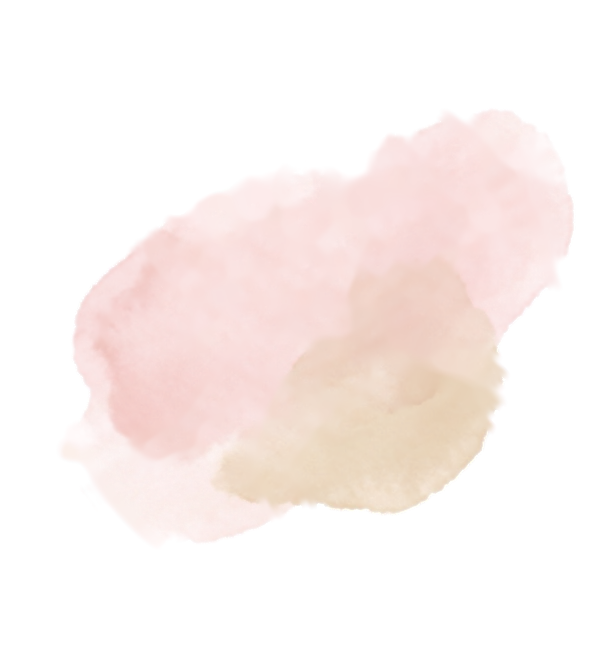
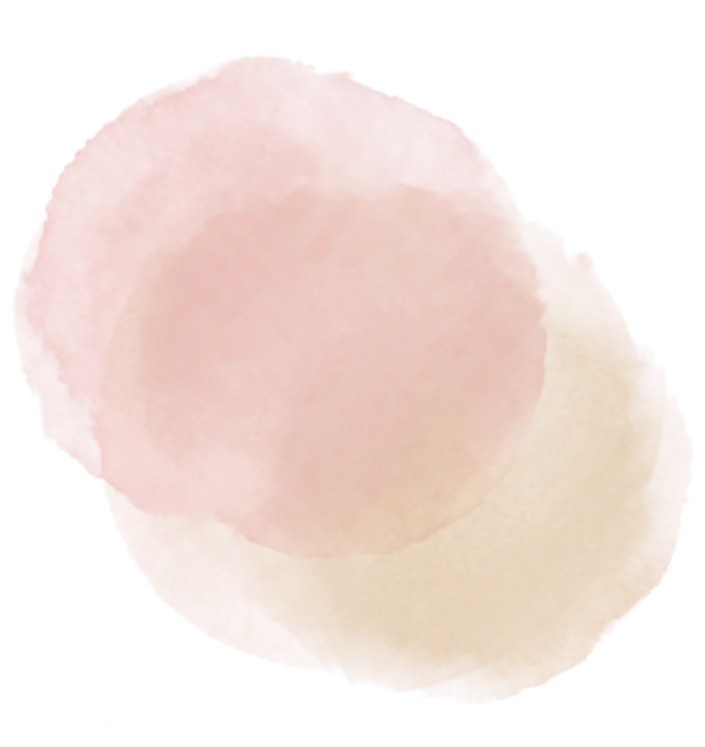
jeevana revamp: minimal single-line Nataraja (blind winner), earlier reveal, sticky placement, mobile Paris + contact scroll fit
Claude-Session: https://claude.ai/code/session_01MJWNLiCuiaMfjvqZLRnJsz

diff --git a/deliverables/jeevana_site_2026-10-26/revamp/css/styles.css b/deliverables/jeevana_site_2026-10-26/revamp/css/styles.css
@@ -421,7 +421,7 @@ fieldset:disabled input,fieldset:disabled select,fieldset:disabled textarea{curs
 .paris__media .frame{aspect-ratio:3/4}
 .paris__media .ph{filter:saturate(.72) sepia(.12) contrast(.96)}
 .paris__words{grid-column:4/9;grid-row:1;position:relative;padding-block:var(--s6)}
-.paris__deity{grid-column:9/-1;grid-row:1;align-self:center;justify-self:end;position:relative;width:100%;max-width:460px;aspect-ratio:605/659;pointer-events:none}
+.paris__deity{grid-column:9/-1;grid-row:1;align-self:start;justify-self:end;position:sticky;top:max(calc(var(--hh) + var(--s5)),calc(50vh - min(15vw,250px)));width:100%;max-width:470px;aspect-ratio:705/747;pointer-events:none}
 .paris__deity img{position:absolute;inset:0;width:100%;height:100%}
 .paris__words h2{max-width:10em}
 .testimonials{display:grid;gap:var(--s7);margin-top:var(--s7)}
@@ -429,9 +429,9 @@ fieldset:disabled input,fieldset:disabled select,fieldset:disabled textarea{curs
 .testimonial figcaption{margin-top:var(--s4);font-size:var(--fs-small);color:var(--ink-2)}
 .paris__links{display:flex;flex-wrap:wrap;gap:var(--s2) var(--s6);margin-top:var(--s7)}
 @media (max-width:899px){
-  .paris__media{grid-column:1/-1;grid-row:3;width:min(70%,360px)}
+  .paris__media{grid-column:1/-1;grid-row:3;width:100%;margin-top:calc(var(--s4) * -1)}
   .paris__words{grid-column:1/-1;grid-row:2;padding-block:0}
-  .paris__deity{grid-column:1/-1;grid-row:1;justify-self:center;width:min(70%,380px);margin-bottom:calc(var(--s5) * -1)}
+  .paris__deity{grid-column:1/-1;grid-row:1;align-self:center;justify-self:center;position:relative;top:auto;width:min(62%,340px)}
 }
 
 /* ------------------------------------------------------------ contact + newsletter */
@@ -485,11 +485,13 @@ fieldset:disabled input,fieldset:disabled select,fieldset:disabled textarea{curs
   .scroll{grid-column:1/-1;width:min(100%,900px)}
 }
 @media (max-width:759px){
-  .scroll{--sw:min(calc(100% + var(--gutter) * 2 - 12px),440px);aspect-ratio:690/1290;width:var(--sw);max-width:none;justify-self:start;margin-inline:calc((100% - var(--sw)) / 2);padding:25% 13.5%}
+  /* vertical scroll sized to its content: roll heights follow the width (cqw), the sheet shows its centre band uncropped in width */
+  .scroll{--sw:min(calc(100% + var(--gutter) * 2 - 12px),440px);container-type:inline-size;aspect-ratio:auto;width:var(--sw);max-width:none;justify-self:start;margin-inline:calc((100% - var(--sw)) / 2);padding:0}
+  .scroll .contact-links{padding:calc(22.4cqw + var(--s3)) 13.5cqw calc(22.6cqw + var(--s3))}
   .scroll__sheet,.scroll__roll{left:0;right:0;width:auto}
-  .scroll__sheet{top:11.473%;bottom:auto;height:76.899%;background-image:url('/assets/photos/scroll-sheet-v.webp')}
-  .scroll__roll--a{top:0;bottom:auto;height:11.938%;background-image:url('/assets/photos/scroll-roll-top.webp')}
-  .scroll__roll--b{top:auto;bottom:0;height:12.093%;background-image:url('/assets/photos/scroll-roll-bottom.webp')}
+  .scroll__sheet{top:21.45cqw;bottom:21.74cqw;height:auto;background-size:100% auto;background-image:url('/assets/photos/scroll-sheet-v.webp')}
+  .scroll__roll--a{top:0;bottom:auto;height:22.32cqw;background-image:url('/assets/photos/scroll-roll-top.webp')}
+  .scroll__roll--b{top:0;bottom:0;height:auto;background-size:100% auto;background-position:bottom;background-image:url('/assets/photos/scroll-roll-bottom.webp')}
   .scroll .contact-links a{grid-template-columns:minmax(0,1fr) 1rem;column-gap:var(--s2);row-gap:2px;padding-block:var(--s4)}
   .scroll .contact-label{grid-column:1;grid-row:1}
   .scroll .contact-value{grid-column:1;grid-row:2;font-size:clamp(.875rem,calc((100cqi - 1.75rem) / 12.9),1.75rem)}
@@ -505,14 +507,14 @@ fieldset:disabled input,fieldset:disabled select,fieldset:disabled textarea{curs
 @media (max-width:759px){
   .orn .scroll__sheet{clip-path:inset(0 0 calc((1 - var(--u,1)) * 98%) 0)}
   .orn .scroll__roll--a{transform:none}
-  .orn .scroll__roll--b{transform:translateY(calc((1 - var(--u,1)) * -628.2%))}
+  .orn .scroll__roll--b{transform:translateY(calc((1 - var(--u,1)) * (44.9cqw - 100%)))}
 }
 .orn .paris__blob{animation:deity-breathe 12s ease-in-out infinite alternate}
 .orn .paris__line{-webkit-mask-image:radial-gradient(circle at 50% 46%,var(--mask-on) calc(var(--p,1) * 118% - 22%),transparent calc(var(--p,1) * 118%));mask-image:radial-gradient(circle at 50% 46%,var(--mask-on) calc(var(--p,1) * 118% - 22%),transparent calc(var(--p,1) * 118%));animation:deity-float 9s ease-in-out infinite alternate}
 @keyframes deity-breathe{from{transform:none}to{transform:translate(5px,-4px) scale(1.04)}}
 @keyframes deity-float{from{transform:none}to{transform:translateY(-6px)}}
 
-.newsletter{display:grid;grid-template-columns:repeat(12,minmax(0,1fr));column-gap:var(--gap);row-gap:var(--s6);margin-top:var(--s10);padding-top:var(--s8);border-top:1px solid var(--rule-strong)}
+.newsletter{display:grid;grid-template-columns:repeat(12,minmax(0,1fr));column-gap:var(--gap);row-gap:var(--s6);margin-top:calc(var(--s10) - 48px);padding-top:var(--s8);border-top:1px solid var(--rule-strong)}
 .newsletter__intro{grid-column:1/5}
 .newsletter__intro h3{font-size:var(--fs-h3)}
 .newsletter__intro p{margin-top:var(--s4);color:var(--ink-2)}

diff --git a/deliverables/jeevana_site_2026-10-26/revamp/index.html b/deliverables/jeevana_site_2026-10-26/revamp/index.html
@@ -111,8 +111,8 @@
 <div class="success-panel" data-ok="register" hidden tabindex="-1" role="status"><span class="success-mark" aria-hidden="true">✓</span><h4 data-i18n="registrationSuccessTitle">Your hello is on its way.</h4><p data-i18n="registrationSuccessBody">Thank you. I have received your details and will reply soon to find a time. This is not a confirmed booking yet.</p></div></div></div><noscript><p class="noscript-note">Online forms need JavaScript. Please email <a href="mailto:Jeevana.yogawellness@gmail.com">Jeevana.yogawellness@gmail.com</a>.</p><p class="noscript-note" lang="fr">Les formulaires en ligne nécessitent JavaScript. Écrivez-moi à <a href="mailto:Jeevana.yogawellness@gmail.com">Jeevana.yogawellness@gmail.com</a>.</p></noscript></div></section>
 
 <section class="section paris" id="paris" aria-labelledby="paris-title"><div class="container paris__grid">
-<div class="paris__deity" data-reveal aria-hidden="true"><img class="paris__blob" src="/assets/photos/nataraja-blob.webp" alt="" width="605" height="659" loading="lazy" decoding="async"><img class="paris__line" src="/assets/photos/nataraja-line.webp" alt="" width="605" height="659" loading="lazy" decoding="async"></div>
-<figure class="paris__media"><div class="frame"><img class="ph" src="/assets/photos/paris@800.webp" srcset="/assets/photos/paris@800.webp 800w, /assets/photos/paris@1200.webp 1200w" sizes="(max-width: 899px) 80vw, 30vw" width="1200" height="1600" loading="lazy" decoding="async" alt="Jeevana in a full backbend, Chakrāsana, on a blue mat on the Champ-de-Mars, the Eiffel Tower behind her." data-i18n-alt="parisAlt"></div></figure>
+<div class="paris__deity" data-reveal aria-hidden="true"><img class="paris__blob" src="/assets/photos/nataraja-blob.webp" alt="" width="705" height="747" loading="lazy" decoding="async"><img class="paris__line" src="/assets/photos/nataraja-line.webp" alt="" width="705" height="747" loading="lazy" decoding="async"></div>
+<figure class="paris__media"><div class="frame"><img class="ph" src="/assets/photos/paris@800.webp" srcset="/assets/photos/paris@800.webp 800w, /assets/photos/paris@1200.webp 1200w" sizes="(max-width: 899px) 92vw, 30vw" width="1200" height="1600" loading="lazy" decoding="async" alt="Jeevana in a full backbend, Chakrāsana, on a blue mat on the Champ-de-Mars, the Eiffel Tower behind her." data-i18n-alt="parisAlt"></div></figure>
 <div class="paris__words">
 <h2 id="paris-title" data-i18n="parisTitle">Here in Paris,<br>in their words.</h2>
 <div class="testimonials"><figure class="testimonial"><blockquote><p data-i18n="quoteEgle">“Jeevana is an amazing yoga teacher. She takes time to explain. Every session is something new and inspiring.”</p></blockquote><figcaption>Egle, <span data-i18n="viaSuperprof">via Superprof</span></figcaption></figure><figure class="testimonial"><blockquote><p data-i18n="quoteThomas">“I didn’t want to do it, but since taking her classes, I can’t stop… I still go to her classes and I love them.”</p></blockquote><figcaption>Thomas, <span data-i18n="viaSuperprof">via Superprof</span></figcaption></figure></div>

diff --git a/deliverables/jeevana_site_2026-10-26/revamp/js/ornaments.js b/deliverables/jeevana_site_2026-10-26/revamp/js/ornaments.js
@@ -23,8 +23,8 @@
     }
     for(const el of deities){
       const r=el.getBoundingClientRect();
-      // starts as the figure enters, complete when its centre reaches mid-viewport
-      el.style.setProperty('--p',smooth(clamp((vh-r.top)/(vh*.5+r.height/2))).toFixed(4));
+      // starts as its top passes 95% of the viewport, complete when its centre reaches 60%
+      el.style.setProperty('--p',smooth(clamp((vh*.95-r.top)/(vh*.35+r.height/2))).toFixed(4));
     }
   }
   function queue(){if(!queued){queued=true;requestAnimationFrame(update);}}
